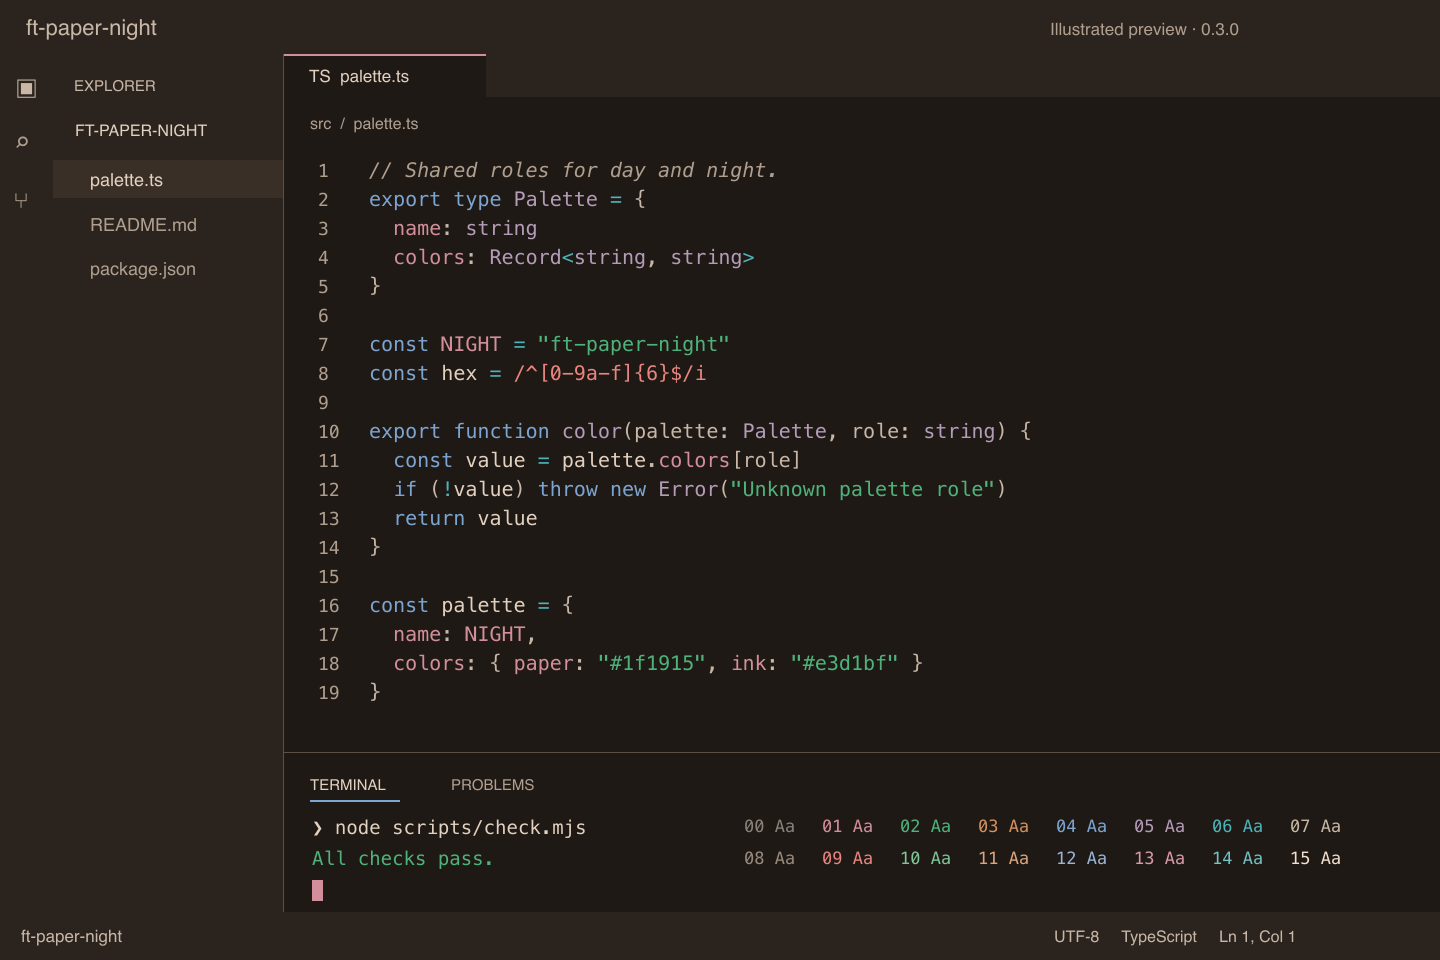
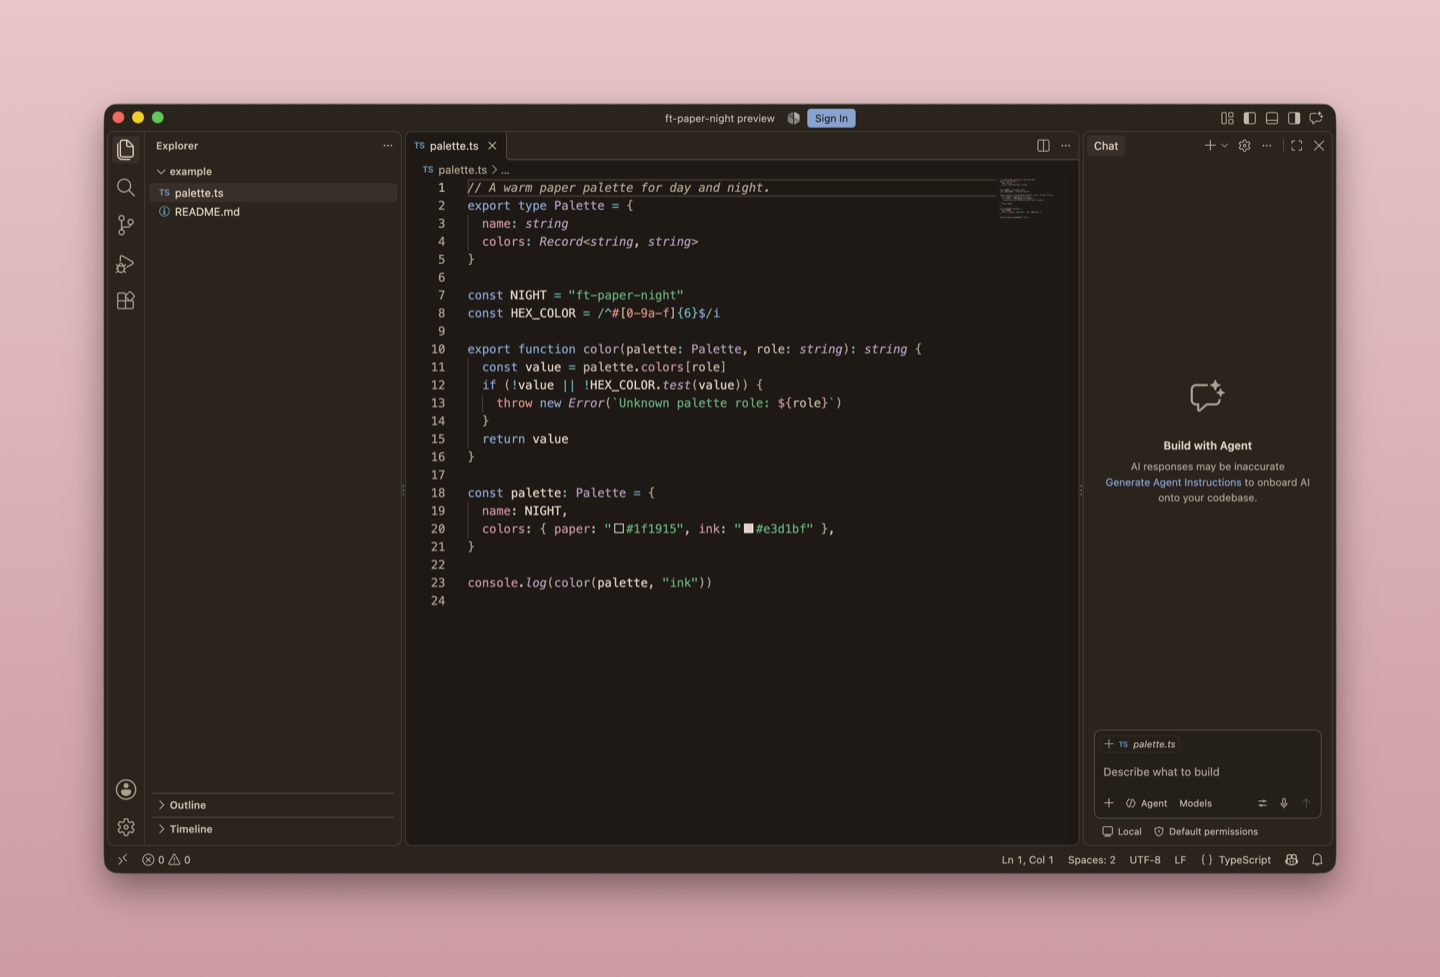
Keep night selections visible and use the real VS Code screenshot

diff --git a/README.md b/README.md
@@ -10,10 +10,9 @@ Existing installations receive both themes through the same extension update.
 
 ![VS Code with the ft-paper theme on a TypeScript file](images/screenshot.png)
 
-![Illustrated ft-paper-night preview with TypeScript and terminal colors](images/screenshot-night.png)
+![VS Code with the ft-paper-night theme on a TypeScript file](images/screenshot-night.png)
 
-The night image is an illustrated preview using the generated theme colors, not a
-VS Code screenshot. The available VS Code window did not expose usable content.
+The night screenshot shows VS Code with an isolated profile and the packaged theme.
 
 ## Install
 
@@ -57,11 +56,12 @@ Semantic highlighting is enabled with the same roles.
 | Editor, active tab, panel, terminal | background `paper`, text `ink` |
 | Side bar, activity bar, title bar, status bar, inactive tabs | background `surface-1` |
 | Widgets (hover, suggestions, command palette, menus, inputs) | background `paper-raised`, border `rule` |
-| Selection | `surface-2` |
+| Selection | `surface-2`, with `ink` text in the night theme |
 | Cursor | editor (thin bar): `ink`; terminal (block): `claret` over `paper` |
 | Current line | border `surface-3` |
 | Focus, buttons, badges, links | `oxford` |
-| Active tab top border, matched characters | `claret` |
+| Active tab top border | `claret` |
+| Matched characters in lists | `claret` by day, `ink-2` at night |
 | Error / warning / info / hint | `crimson` / `mandarin` / `oxford` / `teal` |
 | Git added, untracked / modified, renamed / deleted / conflict / ignored | `jade` / `oxford` / `crimson` / `mandarin` / `ink-muted` |
 | Diff inserted / removed line | `fill-add` / `fill-remove` |
@@ -69,22 +69,31 @@ Semantic highlighting is enabled with the same roles.
 | Terminal ANSI 0–15 | the palette's `terminal.ansi` fields |
 
 VS Code requires translucent colors for diff, search, and merge backgrounds.
-The day theme keeps its existing hue and alpha recipes. The night theme uses the
-published `fill-*` swatches with an alpha of 254/255 to prevent stacked highlights
-from reducing text contrast. Inserted and removed words have colored borders.
-Night search highlights use `fill-match` at 50% opacity so syntax colors stay above
-4.5:1. The build also verifies the original fill formulas, which mix day accents
-over night paper.
+Both themes use the published fill recipes. Night recipes mix day accents over
+night paper, so a single diff line or editor search wash reproduces its published
+`fill-*` color within one RGB step.
+
+Night selection and editor search matches use `ink` text. This keeps the text
+readable without hiding selections underneath the fills. Added words and current
+conflict headers use an 8% overlay over their added content. Incoming headers and
+changed words use 20% over the existing 20%, reproducing `fill-change-focus` at
+36% overall. Colored borders also distinguish changed words.
+
+Search editors, peek code, and stopped debugger lines have no match-text color
+key. Their night search wash uses the published hue at 17% instead of 34% to keep
+the syntax colors readable. Other editor and terminal search washes keep the
+published recipe.
 
 ## Build
 
-Requires Node.js 18 or later. No dependencies.
+Requires Node.js 18 or later. The generator has no npm dependencies.
+Package verification also requires `unzip`.
 
 ```sh
 npm run palette   # refresh both palettes from their published pages
 npm run build     # generate both themes from scripts/theme.mjs
 npm run check     # off-palette colors, contrast, unknown keys
-npx @vscode/vsce package
+npm run package   # package without dependency detection, then verify the VSIX
 ```
 
 - `palette/ft-paper.json`: the structured data published on the palette page
@@ -97,8 +106,11 @@ npx @vscode/vsce package
   - a theme contribution has the wrong name, path, or light/dark type;
   - either theme JSON differs from a fresh build;
   - an opaque color is not a palette color or a derived fill;
-  - a translucent color has no palette base or no written reason;
-  - a key VS Code requires to be translucent is opaque;
+  - a translucent color has no palette or published recipe base, or no written reason;
+  - a required translucent background is opaque, or a night overlay exceeds 60% opacity;
+  - night selection visibility under a checked overlay is below a 1.10 contrast ratio;
+  - selected night text is below 4.5:1 under the checked overlays;
+  - a night diff word or conflict header has less than 1.05 contrast with its content;
   - body text, comments, line numbers or any syntax color is below 4.5:1 on the editor,
     hover or peek background;
   - interface content text, including ghost text and ignored files, is below 4.5:1;
@@ -110,6 +122,11 @@ npx @vscode/vsce package
     (skipped when offline).
 
 Packaging runs the build and checks through `vscode:prepublish`.
+`npm run package` uses `--no-dependencies` for this extension without dependencies,
+then checks the actual archive. The packaged version and contributions must match
+`package.json`, both theme files must match the generated files, and the README
+and license must be present. You can repeat that check with
+`node scripts/check-package.mjs ft-paper-0.3.0.vsix`.
 
 ## Known limits
 
